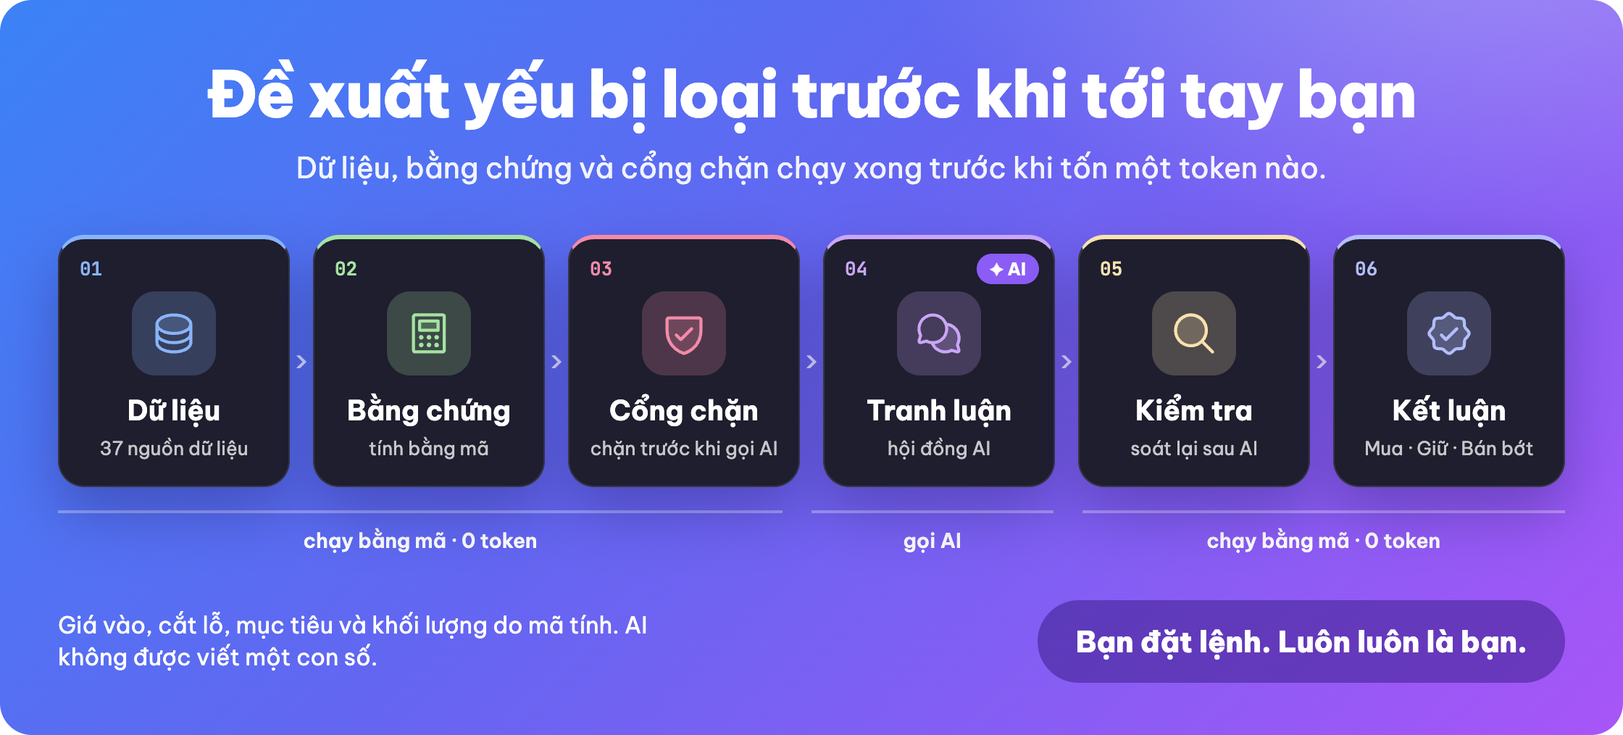
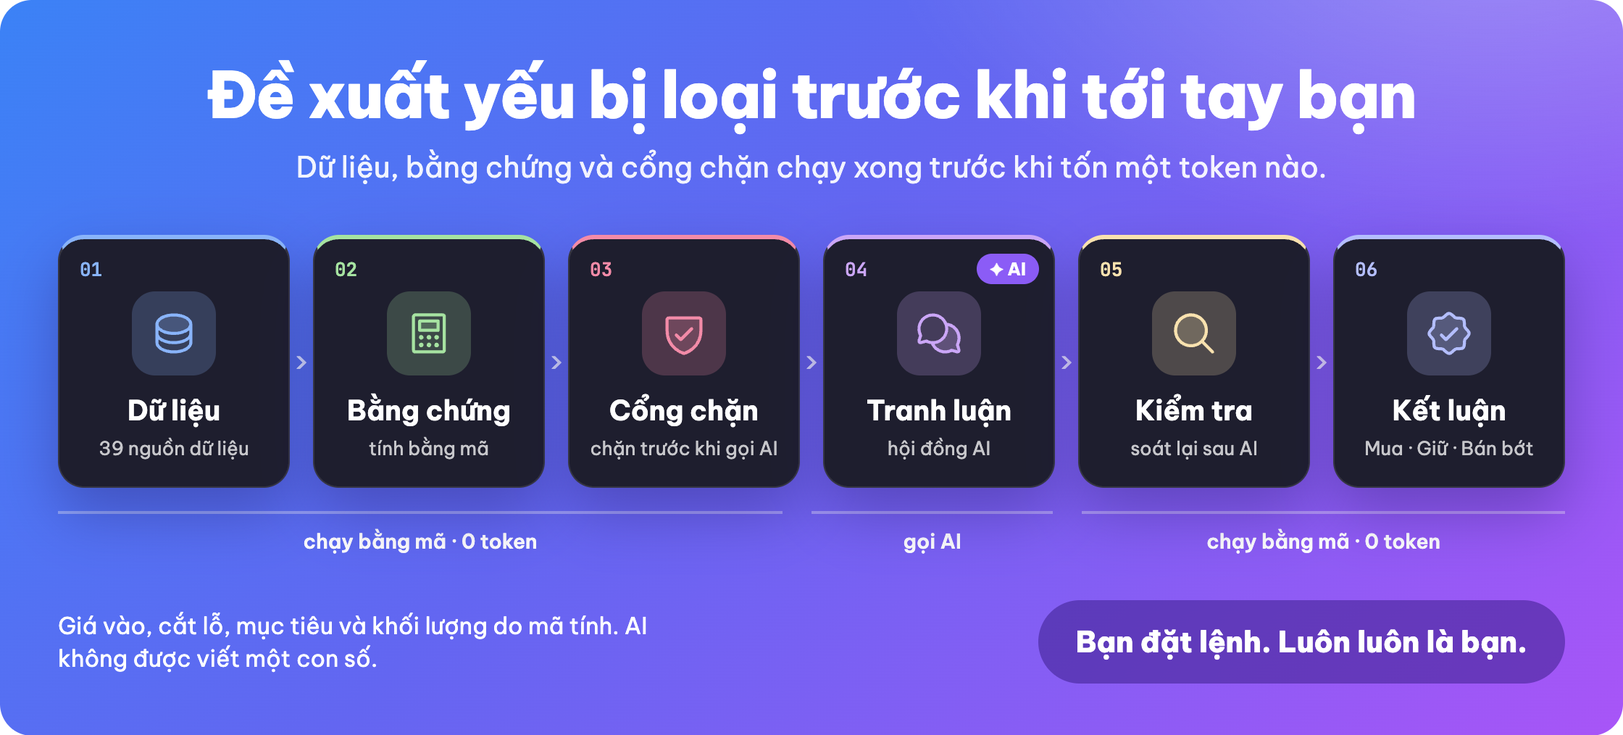
docs: shorten the changelog and add US stocks to the README
The Unreleased section is rewritten short. Both READMEs put English first
in the language links, name US stocks in the New block, the markets table
and the office page, give the SEC contact step, and count 39 sources to
match the refreshed hero, markets and sources images.

diff --git a/README.vi.md b/README.vi.md
@@ -6,7 +6,7 @@
 </p>
 
 <p align="center">
-  <strong>🇻🇳 Tiếng Việt</strong> &bull; <strong><a href="README.md">🇬🇧 English</a></strong>
+  <strong><a href="README.md">🇬🇧 English</a></strong> &bull; <strong>🇻🇳 Tiếng Việt</strong>
 </p>
 
 <p align="center">
@@ -31,6 +31,8 @@ Bạn hỏi một mã, OpenAlpha trả về một kế hoạch: mua ở đâu, c
 
 > [!TIP]
 > Cả đội AI của bạn làm việc trong một văn phòng pixel ngay trên trình duyệt. Nhìn ai đang làm gì, bấm vào một nhân vật để giao việc, liếc bảng thị trường bên cạnh. Mở bằng `openalpha web` · [xem cách dùng](#trang-văn-phòng).
+>
+> Đã có cổ phiếu và quỹ ETF Mỹ: sàng lọc và chấm điểm 500 công ty Mỹ lớn nhất, xếp hạng ngành so với SPY, và bản tin sáng lúc 08:15 giờ New York. Chọn Mỹ khi chạy `onboard`, hoặc thêm vào sổ đang dùng bằng `/profile enable equity-us` · [xem chi tiết](#thị-trường-và-dữ-liệu).
 
 <p align="center">
   <a href="https://zalo.me/g/yl7iqyfovvtyosujulea"><img src="https://img.shields.io/badge/Zalo-nh%C3%B3m%20h%E1%BB%97%20tr%E1%BB%A3-0068FF?style=for-the-badge" alt="Nhóm Zalo hỗ trợ" /></a><br/>
@@ -275,7 +277,7 @@ Nối Telegram hoặc Zalo ([hướng dẫn kênh](docs/kenh.md)). Lần đầu 
   New-Item -ItemType Directory -Force "$HOME\.openalpha" | Out-Null; irm https://raw.githubusercontent.com/alex2loop/openalpha/main/config.minimal.toml -OutFile "$HOME\.openalpha\config.toml"
   ```
 
-- **Giao dịch cổ phiếu Mỹ?** Chọn Mỹ khi `onboard` hỏi thị trường bạn giao dịch chính, hoặc dùng [config.minimal.us.toml](config.minimal.us.toml) thay cho tệp ở trên; tệp này trả lời bằng tiếng Anh, muốn tiếng Việt thì đổi `language` thành `"vi"`. Chỉ tệp này mới thêm `[trading.venues.coinbase]` để Coinbase dẫn đầu báo giá crypto; sau `onboard` bạn tự thêm ([Giao dịch](docs/giao-dich.md#cổ-phiếu-mỹ)). Bắt đầu từ một thư mục dữ liệu mới: tiền tệ của sổ cố định khi hồ sơ đã lưu.
+- **Giao dịch cổ phiếu Mỹ?** Chọn Mỹ khi `onboard` hỏi thị trường bạn giao dịch chính, hoặc dùng [config.minimal.us.toml](config.minimal.us.toml) thay cho tệp ở trên; tệp này trả lời bằng tiếng Anh, muốn tiếng Việt thì đổi `language` thành `"vi"`. Chỉ tệp này mới thêm `[trading.venues.coinbase]` để Coinbase dẫn đầu báo giá crypto; sau `onboard` bạn tự thêm ([Giao dịch](docs/giao-dich.md#cổ-phiếu-mỹ)). Bắt đầu từ một thư mục dữ liệu mới: tiền tệ của sổ cố định khi hồ sơ đã lưu. Muốn thêm cổ phiếu Mỹ vào sổ đang dùng thì chỉ cần chạy `/profile enable equity-us`.
 - **Đổi mô hình AI:** chạy `openalpha onboard` rồi chọn "Mô hình AI". `openalpha provider list` liệt kê hơn 70 nhà cung cấp, `openalpha provider models` cho biết các mô hình và giá.
 - **Thêm mô hình dự phòng:** sửa `[[models]]` trong `config.toml`. Mục đầu là mô hình chính; mục sau chỉ được dùng khi mục trước lỗi hoặc treo:
 
@@ -347,7 +349,7 @@ Các con số trong README chỉ minh họa cú pháp, không phải gợi ý mu
   <img src="assets/readme/office.vi.gif" alt="Trang văn phòng của OpenAlpha: một văn phòng pixel nhìn từ trên xuống với kho dữ liệu, thư viện, phòng họp, sảnh, bàn cảnh báo và phòng trợ lý; các nhân vật đi lại theo phiên chạy thật của dịch vụ nền, dải giá chạy phía trên và ô câu lệnh ở dưới" width="100%" />
 </p>
 
-Trang văn phòng là một ô cửa kính nhìn vào dịch vụ nền: trợ lý, nhóm nghiên cứu và các agent của bạn làm việc trong từng phòng, và mỗi chuyển động là một phiên chạy, một bước hay một câu hỏi đang chờ bạn, không có gì diễn cho vui. Bên cạnh là danh mục, đề xuất, cuộc trò chuyện và ô câu lệnh. Trang không bao giờ đặt lệnh và không tự khởi động phiên chạy AI nào.
+Trang văn phòng là một ô cửa kính nhìn vào dịch vụ nền: trợ lý, nhóm nghiên cứu và các agent của bạn làm việc trong từng phòng, và mỗi chuyển động là một phiên chạy, một bước hay một câu hỏi đang chờ bạn, không có gì diễn cho vui. Con phố bên ngoài đổi theo thị trường chính: TP.HCM, hoặc Lower Manhattan với taxi vàng và các ngày lễ Mỹ khi thị trường chính là Mỹ. Bên cạnh là danh mục, đề xuất, cuộc trò chuyện và ô câu lệnh. Trang không bao giờ đặt lệnh và không tự khởi động phiên chạy AI nào.
 
 Mở bằng `openalpha web` khi dịch vụ nền đang chạy ([bước 3](#bắt-đầu-nhanh) ở trên). Trang hiện gì, cách dùng và cách mở từ máy khác: [trang văn phòng](docs/van-hanh.md#trang-văn-phòng) · [chạy API trên máy chủ](docs/van-hanh.md#chạy-api-trên-máy-chủ). Cùng API đó cũng phục vụ ứng dụng của riêng bạn: xem [Nâng cao](#nâng-cao).
 
@@ -409,7 +411,7 @@ reward_risk = 3            # mục tiêu xa gấp 3 lần khoảng lỗ: lỗ 8%
 | Thị trường | Mã thị trường | Có gì |
 |---|---|---|
 | **Cổ phiếu Việt Nam** | `equity-vn` | Sâu nhất: theo dõi khối ngoại và tự doanh, lịch công bố thông tin, sức khỏe tài chính, và luôn tính đến T+2. |
-| **Cổ phiếu và quỹ ETF Mỹ** | `equity-us` | Sàng lọc 500 công ty Mỹ lớn nhất và một bảng quỹ, chấm đà giá và biến động bằng giá, giá trị và chất lượng bằng báo cáo tài chính của SEC (cần email liên hệ của bạn), và không gợi ý mua quỹ đòn bẩy hay quỹ đảo chiều. Đặt `region = "us"` và `currency = "USD"`, hoặc chọn Mỹ trong `onboard`. |
+| **Cổ phiếu và quỹ ETF Mỹ** | `equity-us` | Sàng lọc 500 công ty Mỹ lớn nhất và một bảng quỹ, chấm đà giá và biến động bằng giá, giá trị và chất lượng bằng báo cáo tài chính của SEC (cần email liên hệ của bạn), và không gợi ý mua quỹ đòn bẩy hay quỹ đảo chiều. Xếp hạng các ngành Mỹ so với SPY, và khi thị trường chính là Mỹ, bản tin sáng đến lúc 08:15 giờ New York kèm lịch công bố kết quả kinh doanh, giao dịch mua của người nội bộ và ngày giao dịch không hưởng cổ tức của các mã bạn nắm hoặc theo dõi. Đặt `region = "us"` và `currency = "USD"`, hoặc chọn Mỹ trong `onboard`. |
 | **Tiền mã hóa** | `crypto` | Chỉ giao ngay. Mua khi giá vượt đỉnh gần đây, cắt lỗ dời lên theo giá, đọc thêm dữ liệu phái sinh để biết thị trường đang dùng đòn bẩy nhiều hay ít. |
 | **Vàng trong nước** | `gold-vn` | So với giá thế giới để biết vàng thật sự tăng hay chỉ là tiệm nới chênh lệch. Tắt sẵn; bật bằng `/profile enable gold-vn`. |
 | **Vàng thế giới** | `gold` | Chỉ để tham chiếu: xem giá và làm mốc cho vàng trong nước. |
@@ -417,10 +419,10 @@ reward_risk = 3            # mục tiêu xa gấp 3 lần khoảng lỗ: lỗ 8%
 Chỉ cần gõ mã (`/price FPT`). Khi hai thị trường có cùng một mã thì ghi thêm tên thị trường: `/suggest crypto:UNI`.
 
 <p align="center">
-  <img src="assets/readme/sources.vi.png" alt="Nguồn dữ liệu chia theo từng thị trường: cổ phiếu Việt Nam, tiền mã hóa, vàng trong nước, vàng thế giới, vĩ mô Việt Nam, vĩ mô Mỹ và liên thị trường" width="100%" />
+  <img src="assets/readme/sources.vi.png" alt="Nguồn dữ liệu chia theo từng thị trường: cổ phiếu Việt Nam, cổ phiếu Mỹ, tiền mã hóa, vàng trong nước, vàng thế giới, vĩ mô Việt Nam, vĩ mô Mỹ và liên thị trường" width="100%" />
 </p>
 
-OpenAlpha lấy dữ liệu từ 37 nguồn, chia theo từng thị trường; nguồn nào lỗi thì nguồn dự phòng tự thay vào ([nguồn dữ liệu](docs/nguon-du-lieu.md)). Vài nguồn nhận thêm khóa miễn phí; nếu bạn theo dõi vàng hay vĩ mô Mỹ, nên lấy khóa ở [trang FRED](https://fred.stlouisfed.org/docs/api/api_key.html) rồi lưu bằng `openalpha key set FRED_API_KEY` để có chỉ số đô la và VIX ([chi tiết](docs/nguon-du-lieu.md#bạn-cần-làm-gì)). Dữ liệu lưu trong SQLite có sẵn trên máy, không cần cài thêm. Dùng được hơn 70 nhà cung cấp AI, nhà nào treo thì phiên chạy tự chuyển sang nhà kế tiếp. Nói chuyện với nó qua terminal, Telegram, Zalo, Zalo cá nhân hoặc trang văn phòng.
+OpenAlpha lấy dữ liệu từ 39 nguồn, chia theo từng thị trường; nguồn nào lỗi thì nguồn dự phòng tự thay vào ([nguồn dữ liệu](docs/nguon-du-lieu.md)). Vài nguồn nhận thêm khóa miễn phí; nếu bạn theo dõi vàng hay vĩ mô Mỹ, nên lấy khóa ở [trang FRED](https://fred.stlouisfed.org/docs/api/api_key.html) rồi lưu bằng `openalpha key set FRED_API_KEY` để có chỉ số đô la và VIX ([chi tiết](docs/nguon-du-lieu.md#bạn-cần-làm-gì)). Với cổ phiếu Mỹ, lưu một email bạn có đọc bằng `openalpha key set SEC_CONTACT_EMAIL`: SEC yêu cầu mọi bên gọi dữ liệu phải ghi email liên hệ, và có email này thì mình mới chấm được giá trị, chất lượng, cùng lịch công bố kết quả kinh doanh và giao dịch mua của người nội bộ. Dữ liệu lưu trong SQLite có sẵn trên máy, không cần cài thêm. Dùng được hơn 70 nhà cung cấp AI, nhà nào treo thì phiên chạy tự chuyển sang nhà kế tiếp. Nói chuyện với nó qua terminal, Telegram, Zalo, Zalo cá nhân hoặc trang văn phòng.
 
 ### Nghiên cứu có trích nguồn
 

diff --git a/CHANGELOG.md b/CHANGELOG.md
@@ -11,35 +11,32 @@ it. OpenAlpha shows both in its update notice. A release you should install soon
 
 ### Added
 
-- Sector strength for US stocks: ask which sectors lead or lag and the office page's sector block ranks the US board by Nasdaq's sector against SPY over 20 and 60 sessions, with today's move.
-- With a US home, the office page shows Lower Manhattan instead of Ho Chi Minh City: Broadway with its bike lane and yellow cabs, Bowling Green, a stepped glass tower carrying the board, a street food cart, and the Fourth of July, Thanksgiving and Christmas on the street. Inputs suggest a ticker from your own market (AAPL rather than FPT), the first-agent templates offer US dividends and tech instead of Vietnamese dividends and banks, and the weather follows the city as soon as the home changes.
-- US stocks and ETFs as a home market: `[locale] region = "us"` (or the new onboarding question) screens the 500 largest US companies and a fund board, scores them on twelve-month momentum, volatility and, with an SEC contact email, value and quality, and sizes them in dollars at the built-in `us-broker` venue. A leveraged or inverse fund is never suggested for purchase.
-- The morning brief for a US home, sent at 08:15 New York time: the US and crypto blocks, your suggestions, and a "Filings and ex-dividend dates" list of earnings releases, insider purchases and coming ex-dividend dates for the names you hold or watch. Without an SEC contact email the list says filings are off and how to turn them on. Market warm-up now runs 90 minutes before each open, so Vietnam's moves from 08:00 to 07:30.
-- In `/price` and `/suggest`, a bare symbol that a stock and a coin share (LINK, ATOM) reads the side you already hold or watch and says the other one exists; `/record` and `/update` still ask which market you mean.
-- Data from Nasdaq (listings, quotes, history, dividends) and SEC (annual accounts, earnings releases, insider purchases), the ten-year less three-month yield spread in the US macro composite, and Coinbase prices for crypto, converted to USDT. SEC calls are paced to stay under its limit of ten requests a second, and US filing and dividend events read in your language on the ticker page.
+- US stocks and ETFs as a home market (`[locale] region = "us"` or the onboarding question): the 500 largest US companies and a fund board, scored on momentum, volatility and, with an SEC contact email, value and quality, sized in dollars at the `us-broker` venue. Leveraged and inverse funds are never suggested for purchase.
+- US sector strength: sectors ranked against SPY over 20 and 60 sessions, in chat and on the office page.
+- A morning brief for a US home at 08:15 New York time, with a "Filings and ex-dividend dates" list for the names you hold or watch. Market warm-up now runs 90 minutes before each open (Vietnam: 07:30).
+- New data: Nasdaq (listings, quotes, history, dividends), SEC (annual accounts, earnings releases, insider purchases), the US 10-year less 3-month yield spread, and Coinbase crypto prices.
+- The office page shows Lower Manhattan for a US home, with its own holidays, weather and ticker suggestions.
+- `/price` and `/suggest` read a symbol shared by a stock and a coin (LINK, ATOM) as the one you hold or watch, and name the other.
 
 ### Changed
 
-- The README on GitHub now opens in English (`README.md`); the Vietnamese one moved to `README.vi.md`, and each links to the other at the top.
-- `onboard` now starts in English unless your computer runs in Vietnamese, and offers the home market that matches the language you pick (Vietnam for Vietnamese, the United States for English). A config that names no `[locale] language` answers in its home market's language, so an existing Vietnam book keeps Vietnamese and a US one answers in English; the desktop app's first run writes that language into the file. The app falls back to English when your browser is in neither language.
-- Settings > Display gains a Home market choice (Vietnam or the United States), applied at the next restart; the book keeps its currency. `/setup` now asks which of every tradable market you trade, your home market first, instead of only your home market and crypto.
-- `/overview` with no market named now shows the markets you use (segments switched on, plus any market you hold or watch) instead of every market, and falls back to every market when that list cannot be read or is empty; `/overview gold` still reads world gold.
-- In Vietnamese the assistant always calls itself "mình"; some replies said "tôi".
-- A book from before a market existed no longer refreshes it: the in-use set reads the resolved profile.
-- Tool, skill and usage wording no longer assumes a Vietnamese book.
-- With no saved profile, the refresh covers only the markets the seeded profile switches on (your home market and crypto), not every market. Vietnamese gold (`gold-vn`) stays out until you enable it with `/profile enable`, and world gold stays out, as it is read for reference only.
+- English is the default: the README opens in English (Vietnamese in `README.vi.md`), and `onboard` starts in English unless your computer runs in Vietnamese. A config without `[locale] language` answers in its home market's language, so existing Vietnam books stay Vietnamese.
+- Settings > Display can switch the home market; `/setup` asks about every tradable market. When a saved profile keeps the new home market switched off, `/profile` and the morning brief say so and name `/profile enable`.
+- `/overview` with no market shows only the markets you use.
+- Refresh covers only the markets your profile uses; Vietnamese gold stays off until `/profile enable`.
+- In Vietnamese the assistant always calls itself "mình".
 
 ### Fixes
 
-- A US name the weekly Nasdaq listing leaves out once is no longer marked delisted for the week, which stopped its prices and refused `/price`; it is delisted only when the next listing leaves it out too.
-- The analysts debating a US fund now read the macro-liquidity method, as for a Vietnamese fund, instead of the stock valuation and quality methods a fund has no accounts for.
-- A US company whose net income SEC serves at the wrong scale (Arista's 2025 income read as $3,511 instead of $3.5 billion) no longer ranks near the bottom on value and quality: the correctly scaled figure is taken where a second tag files one, and the line is left out where none does.
-- A US company with no listed sector gets no return-on-equity rank instead of being ranked against every other sectorless company as if they shared one, and a foreign filer that tags a dollar convenience translation beside its own currency keeps the accounts in the currency it reports in.
-- The US calendar ends the session at 13:00 New York time on the day after Thanksgiving, and on July 3 and December 24 when they trade, so a stock's day settles and reads as closed at the real bell, and the app shows that day's 13:00 close.
-- In the app, US stocks get their own colour in the portfolio bars and a short name on the lobby agenda, and a class-share ticker such as BRK.B in a reply links to its page.
-- The desktop app's first run (`setup write`) no longer refuses every config once the model's key is set.
-- Settings in the app save again while the model's key is missing or was just saved and waits for a restart. Before, every row was refused, and switching provider took two restarts.
-- Switching provider in the app's model chain now starts from that provider's default model instead of keeping the old provider's model name, which the new one would refuse. A provider with no key saved yet gets a line and an "Add the key" button, and Test the connection waits for the restart instead of testing the models still running. The model chain still opens when the key list cannot be read.
+- `/screen crypto` keeps only coins a venue you trade at lists (the default venue, an exchange with your key, or one your book names), instead of any venue the app knows. A book kept at OKX no longer sees a coin only Binance sells at the top of the board.
+- A US name missing from one weekly Nasdaq listing is no longer delisted until the next listing confirms it.
+- SEC net income filed at the wrong scale (Arista's 2025 read as $3,511) no longer drags a company's value and quality ranks.
+- Sectorless US names get no return-on-equity rank, and a foreign filer's accounts stay in its reporting currency.
+- The US calendar closes at 13:00 on early-close days (day after Thanksgiving, July 3, December 24).
+- Analysts debating a US fund read the macro-liquidity method instead of stock valuation methods.
+- The app's settings save again while a model key is missing or pending restart, switching provider picks that provider's default model, and the desktop first run no longer refuses a config with a key set.
+- In the app, the restart line after a settings change sits on the same glass as the offline bar instead of floating bare over the office. The command box leads with a chat mark instead of a `/` that looked already typed, and pressing `/` on an empty box starts a command with the `/` in place. The market picker on Ideas > Opportunities uses the short segment names on one row instead of wrapping full market names over two.
+- US stocks get their own colour and short name in the app, and class-share tickers such as BRK.B link to their page.
 
 ## [1.2.2] - 2026-10-30
 

diff --git a/README.md b/README.md
@@ -6,7 +6,7 @@
 </p>
 
 <p align="center">
-  <strong><a href="README.vi.md">🇻🇳 Tiếng Việt</a></strong> &bull; <strong>🇬🇧 English</strong>
+  <strong>🇬🇧 English</strong> &bull; <strong><a href="README.vi.md">🇻🇳 Tiếng Việt</a></strong>
 </p>
 
 <p align="center">
@@ -31,6 +31,8 @@ It is an analysis aid, not investment advice. Suggestions can be wrong, and ever
 
 > [!TIP]
 > Your whole AI team works in a pixel office right in your browser. See who is doing what, click a person to hand them work, and glance at the market panel beside it. Open it with `openalpha web` · [see how](#the-office-page).
+>
+> US stocks and ETFs are in: the 500 largest US companies screened and scored, sectors ranked against SPY, and a morning brief at 08:15 New York time. Pick the United States in `onboard`, or add them to the book you already keep with `/profile enable equity-us` · [see what it covers](#markets-and-data).
 
 <p align="center">
   <a href="https://zalo.me/g/yl7iqyfovvtyosujulea"><img src="https://img.shields.io/badge/Zalo-support%20group-0068FF?style=for-the-badge" alt="Zalo support group" /></a><br/>
@@ -275,7 +277,7 @@ Connect Telegram or Zalo ([channels guide](docs/en/channels.md)). The first time
   New-Item -ItemType Directory -Force "$HOME\.openalpha" | Out-Null; irm https://raw.githubusercontent.com/alex2loop/openalpha/main/config.minimal.en.toml -OutFile "$HOME\.openalpha\config.toml"
   ```
 
-- **Trading US stocks?** Pick the United States when `onboard` asks which market you mainly trade, or take [config.minimal.us.toml](config.minimal.us.toml) in place of the file above. Only the file adds `[trading.venues.coinbase]`, which makes Coinbase lead crypto quotes; after `onboard` add it yourself ([Trading](docs/en/trading.md#us-stocks)). Start from a fresh data directory: the currency of the book is fixed once your profile is saved.
+- **Trading US stocks?** Pick the United States when `onboard` asks which market you mainly trade, or take [config.minimal.us.toml](config.minimal.us.toml) in place of the file above. Only the file adds `[trading.venues.coinbase]`, which makes Coinbase lead crypto quotes; after `onboard` add it yourself ([Trading](docs/en/trading.md#us-stocks)). Start from a fresh data directory: the currency of the book is fixed once your profile is saved. To add US stocks to a book you already keep, run `/profile enable equity-us` instead.
 - **Change the AI model:** run `openalpha onboard` and pick "AI model". `openalpha provider list` lists over 70 providers; `openalpha provider models` shows models and prices.
 - **Add a fallback model:** edit `[[models]]` in `config.toml`. The first entry is the main model; a later one is used only when the one before it fails or hangs:
 
@@ -347,7 +349,7 @@ The figures in this README only illustrate the syntax; they are not trade ideas.
   <img src="assets/readme/office.en.gif" alt="The OpenAlpha office page: a top-down pixel office with a data store, library, meeting room, lobby, alert desk and assistant room; the staff move as the daemon's real runs start and finish, a price tape scrolls across the top and a command box sits at the bottom" width="100%" />
 </p>
 
-The office page is a glass wall into the daemon: your assistant, the research crew and your own agents work in their rooms, and everything that moves is a real run, a real step or a real question waiting for you; nothing is scripted to look busy. Beside it sit your portfolio, suggestions, chat and command box. The page never places an order and never starts an AI run by itself.
+The office page is a glass wall into the daemon: your assistant, the research crew and your own agents work in their rooms, and everything that moves is a real run, a real step or a real question waiting for you; nothing is scripted to look busy. Outside, the street follows your home market: Ho Chi Minh City, or Lower Manhattan with its yellow cabs and holidays for a US home. Beside it sit your portfolio, suggestions, chat and command box. The page never places an order and never starts an AI run by itself.
 
 Open it with `openalpha web` while the background service runs ([step 3](#quick-start) above). What the page shows, how to use it and how to reach it from another machine: [the office page](docs/en/operations.md#the-office-page) · [run the API on a server](docs/en/operations.md#run-the-api-on-a-server). The same API serves your own app too: see [Advanced](#advanced).
 
@@ -409,7 +411,7 @@ reward_risk = 3            # target 3x the risk: an 8% stop means a target near 
 | Market | Market id | What it brings |
 |---|---|---|
 | **VN equities** | `equity-vn` | The deepest: follows foreign and proprietary flow, the disclosure calendar and financial health, and always plans around T+2. |
-| **US stocks and ETFs** | `equity-us` | Screens the 500 largest US companies and a fund board, scores momentum and volatility from prices and value and quality from SEC accounts (with your contact email), and refuses to suggest buying leveraged or inverse funds. Set `region = "us"` and `currency = "USD"`, or pick the United States in `onboard`. |
+| **US stocks and ETFs** | `equity-us` | Screens the 500 largest US companies and a fund board, scores momentum and volatility from prices and value and quality from SEC accounts (with your contact email), and refuses to suggest buying leveraged or inverse funds. Ranks US sectors against SPY, and with a US home the morning brief lands at 08:15 New York time with the earnings releases, insider buys and ex-dividend dates of the names you hold or watch. Set `region = "us"` and `currency = "USD"`, or pick the United States in `onboard`. |
 | **Crypto** | `crypto` | Spot only. Buys when price clears its recent high, with a stop that moves up behind the price, and reads the futures market to show how much leverage traders are using. |
 | **VN gold** | `gold-vn` | Compared with the world price, so you can tell a real move from a shop widening its spread. Off by default; switch it on with `/profile enable gold-vn`. |
 | **World gold** | `gold` | Reference only: its price, and the yardstick for VN gold. |
@@ -417,10 +419,10 @@ reward_risk = 3            # target 3x the risk: an 8% stop means a target near 
 A bare ticker is usually enough (`/price FPT`). Qualify it only where two markets could claim the same name: `/suggest crypto:UNI`.
 
 <p align="center">
-  <img src="assets/readme/sources.en.png" alt="Data sources routed per market: VN equities, crypto, VN gold, world gold, VN macro, US macro and cross-market" width="100%" />
+  <img src="assets/readme/sources.en.png" alt="Data sources routed per market: VN equities, US equities, crypto, VN gold, world gold, VN macro, US macro and cross-market" width="100%" />
 </p>
 
-OpenAlpha routes 37 data sources per market; when one fails, a backup takes over by itself ([data sources](docs/en/data-sources.md)). A few sources take an extra free key; if you follow gold or US macro, get a key from the [FRED site](https://fred.stlouisfed.org/docs/api/api_key.html) and save it with `openalpha key set FRED_API_KEY` to get the dollar index and VIX ([details](docs/en/data-sources.md#what-you-need-to-do)). Data lives in SQLite, already on your machine. Over 70 AI providers work, and when one stalls the run moves to the next. Talk to it from the terminal, Telegram, Zalo, Zalo Personal or the office page.
+OpenAlpha routes 39 data sources per market; when one fails, a backup takes over by itself ([data sources](docs/en/data-sources.md)). A few sources take an extra free key; if you follow gold or US macro, get a key from the [FRED site](https://fred.stlouisfed.org/docs/api/api_key.html) and save it with `openalpha key set FRED_API_KEY` to get the dollar index and VIX ([details](docs/en/data-sources.md#what-you-need-to-do)). For US stocks, save any email you read with `openalpha key set SEC_CONTACT_EMAIL`: SEC asks every caller to name a contact, and it unlocks value and quality scores, earnings releases and insider buys. Data lives in SQLite, already on your machine. Over 70 AI providers work, and when one stalls the run moves to the next. Talk to it from the terminal, Telegram, Zalo, Zalo Personal or the office page.
 
 ### Research with receipts
 
